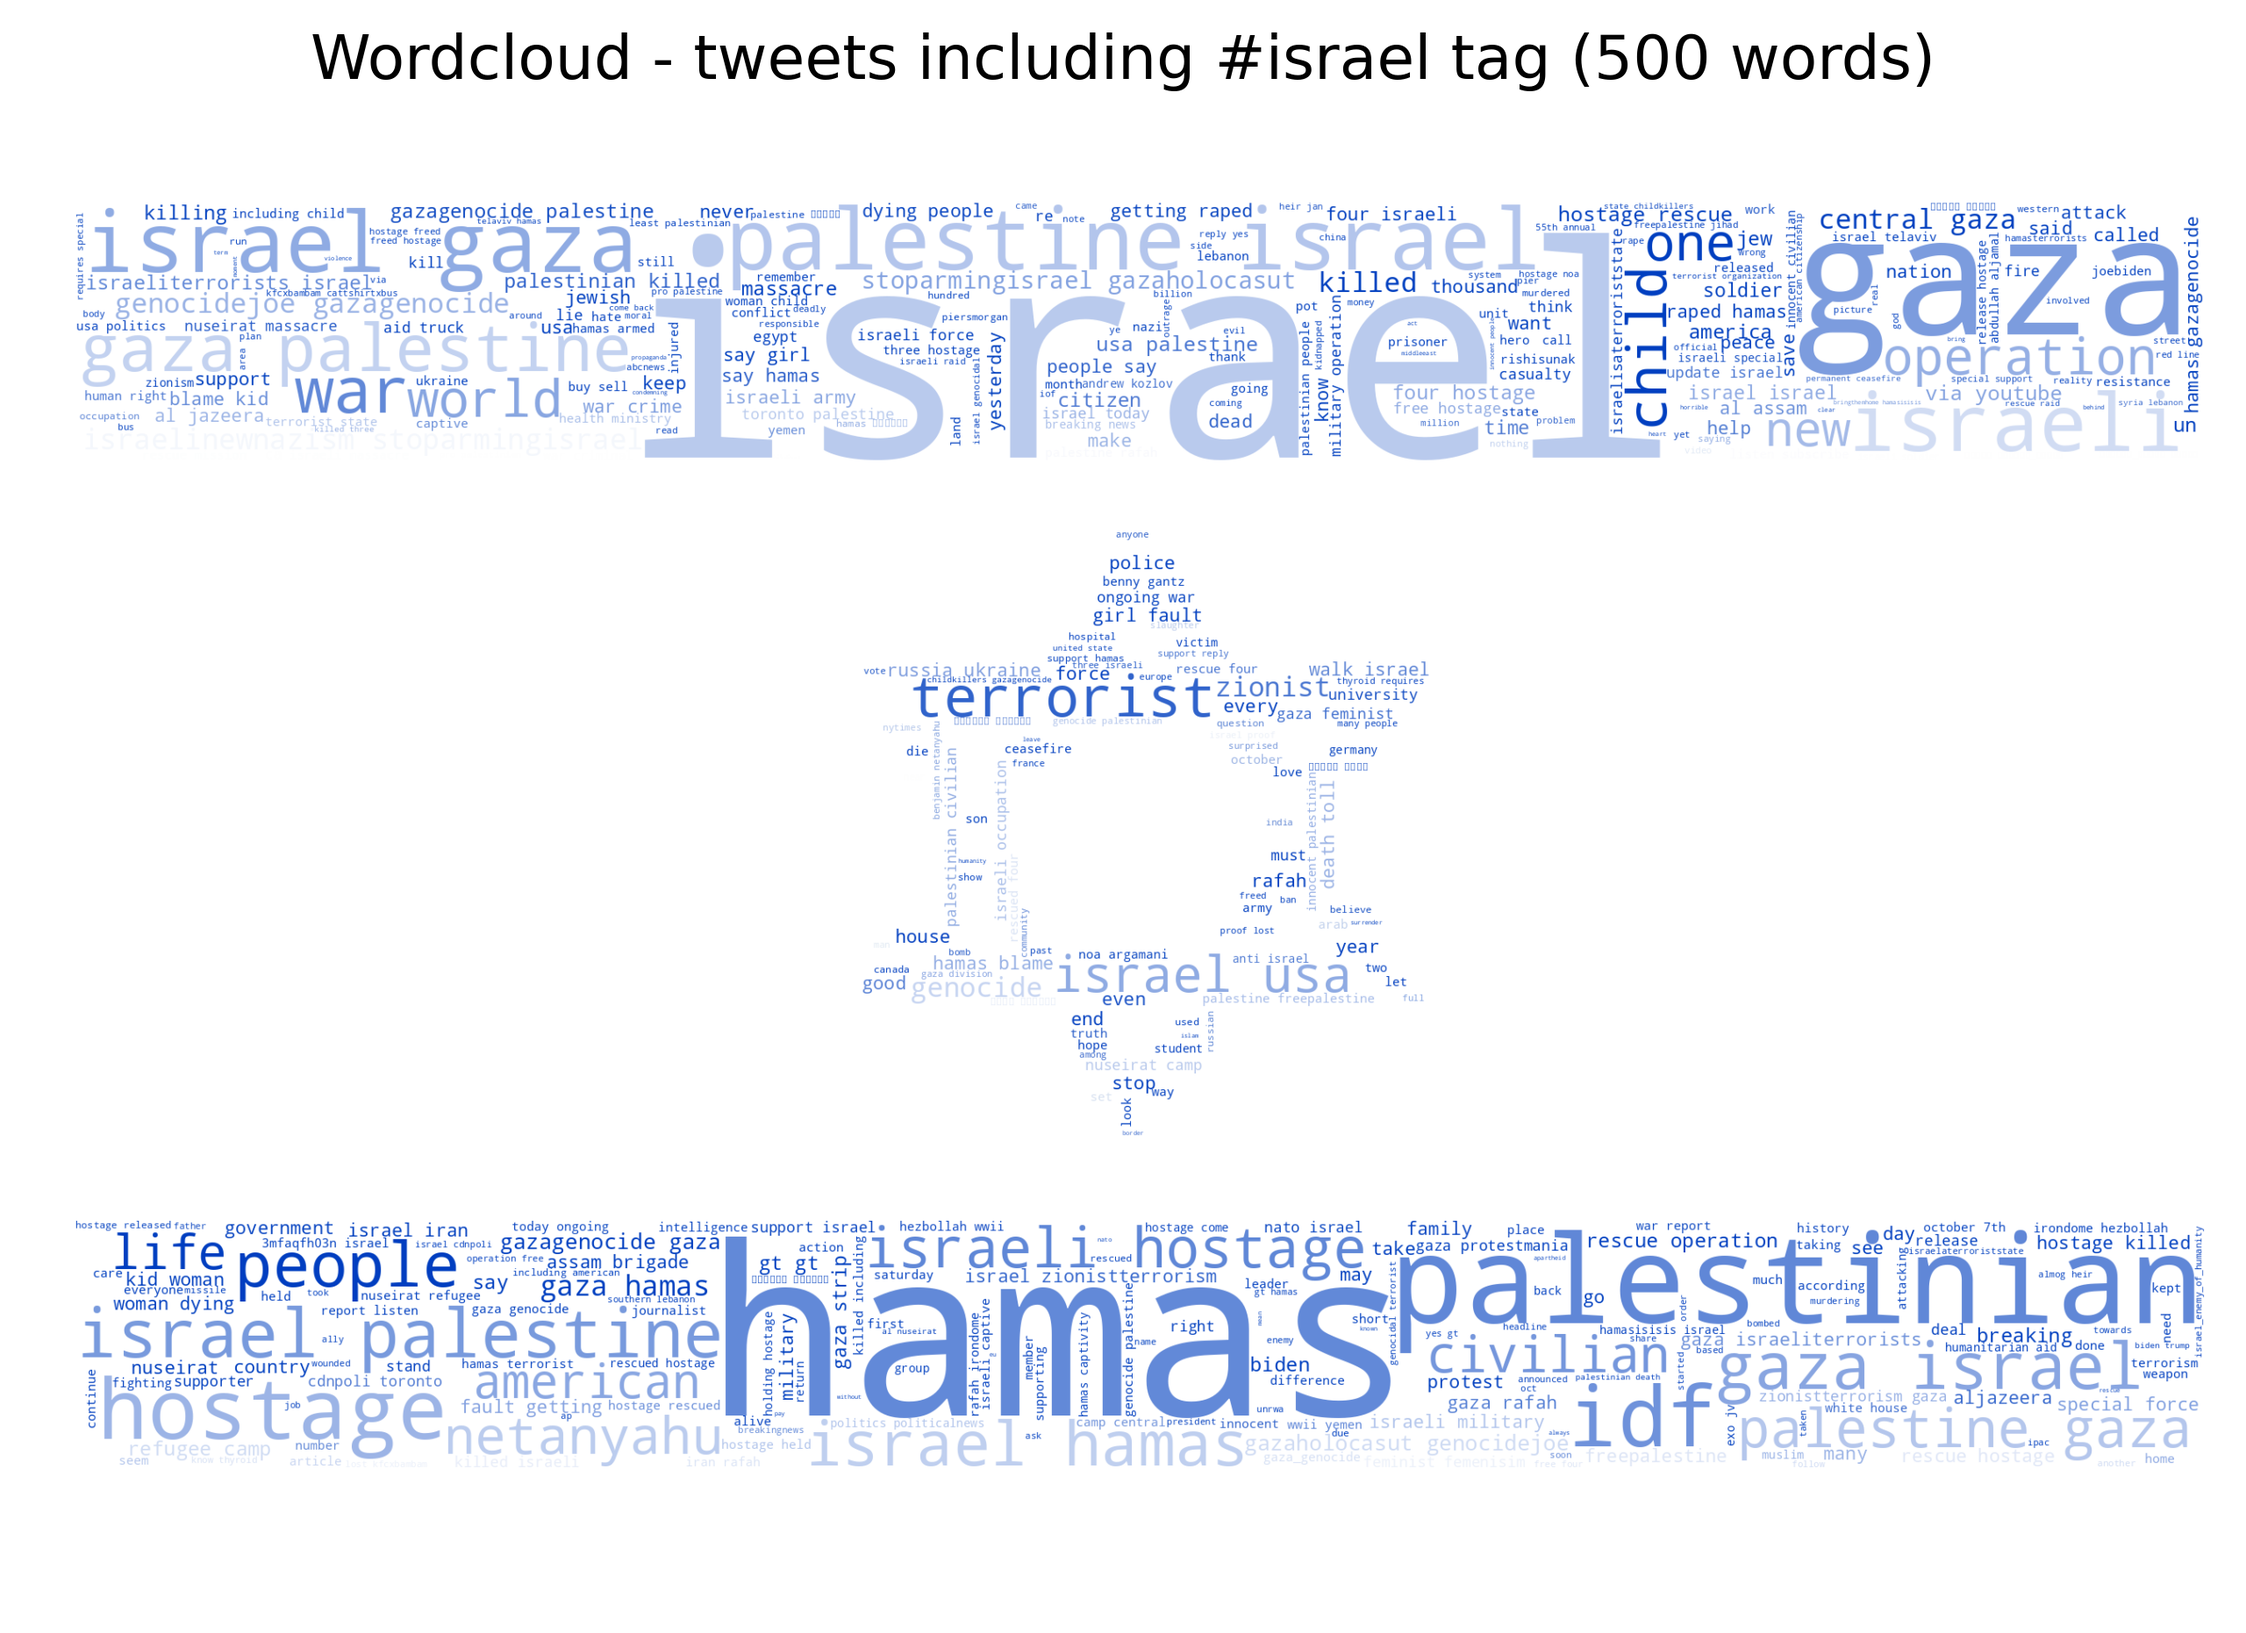
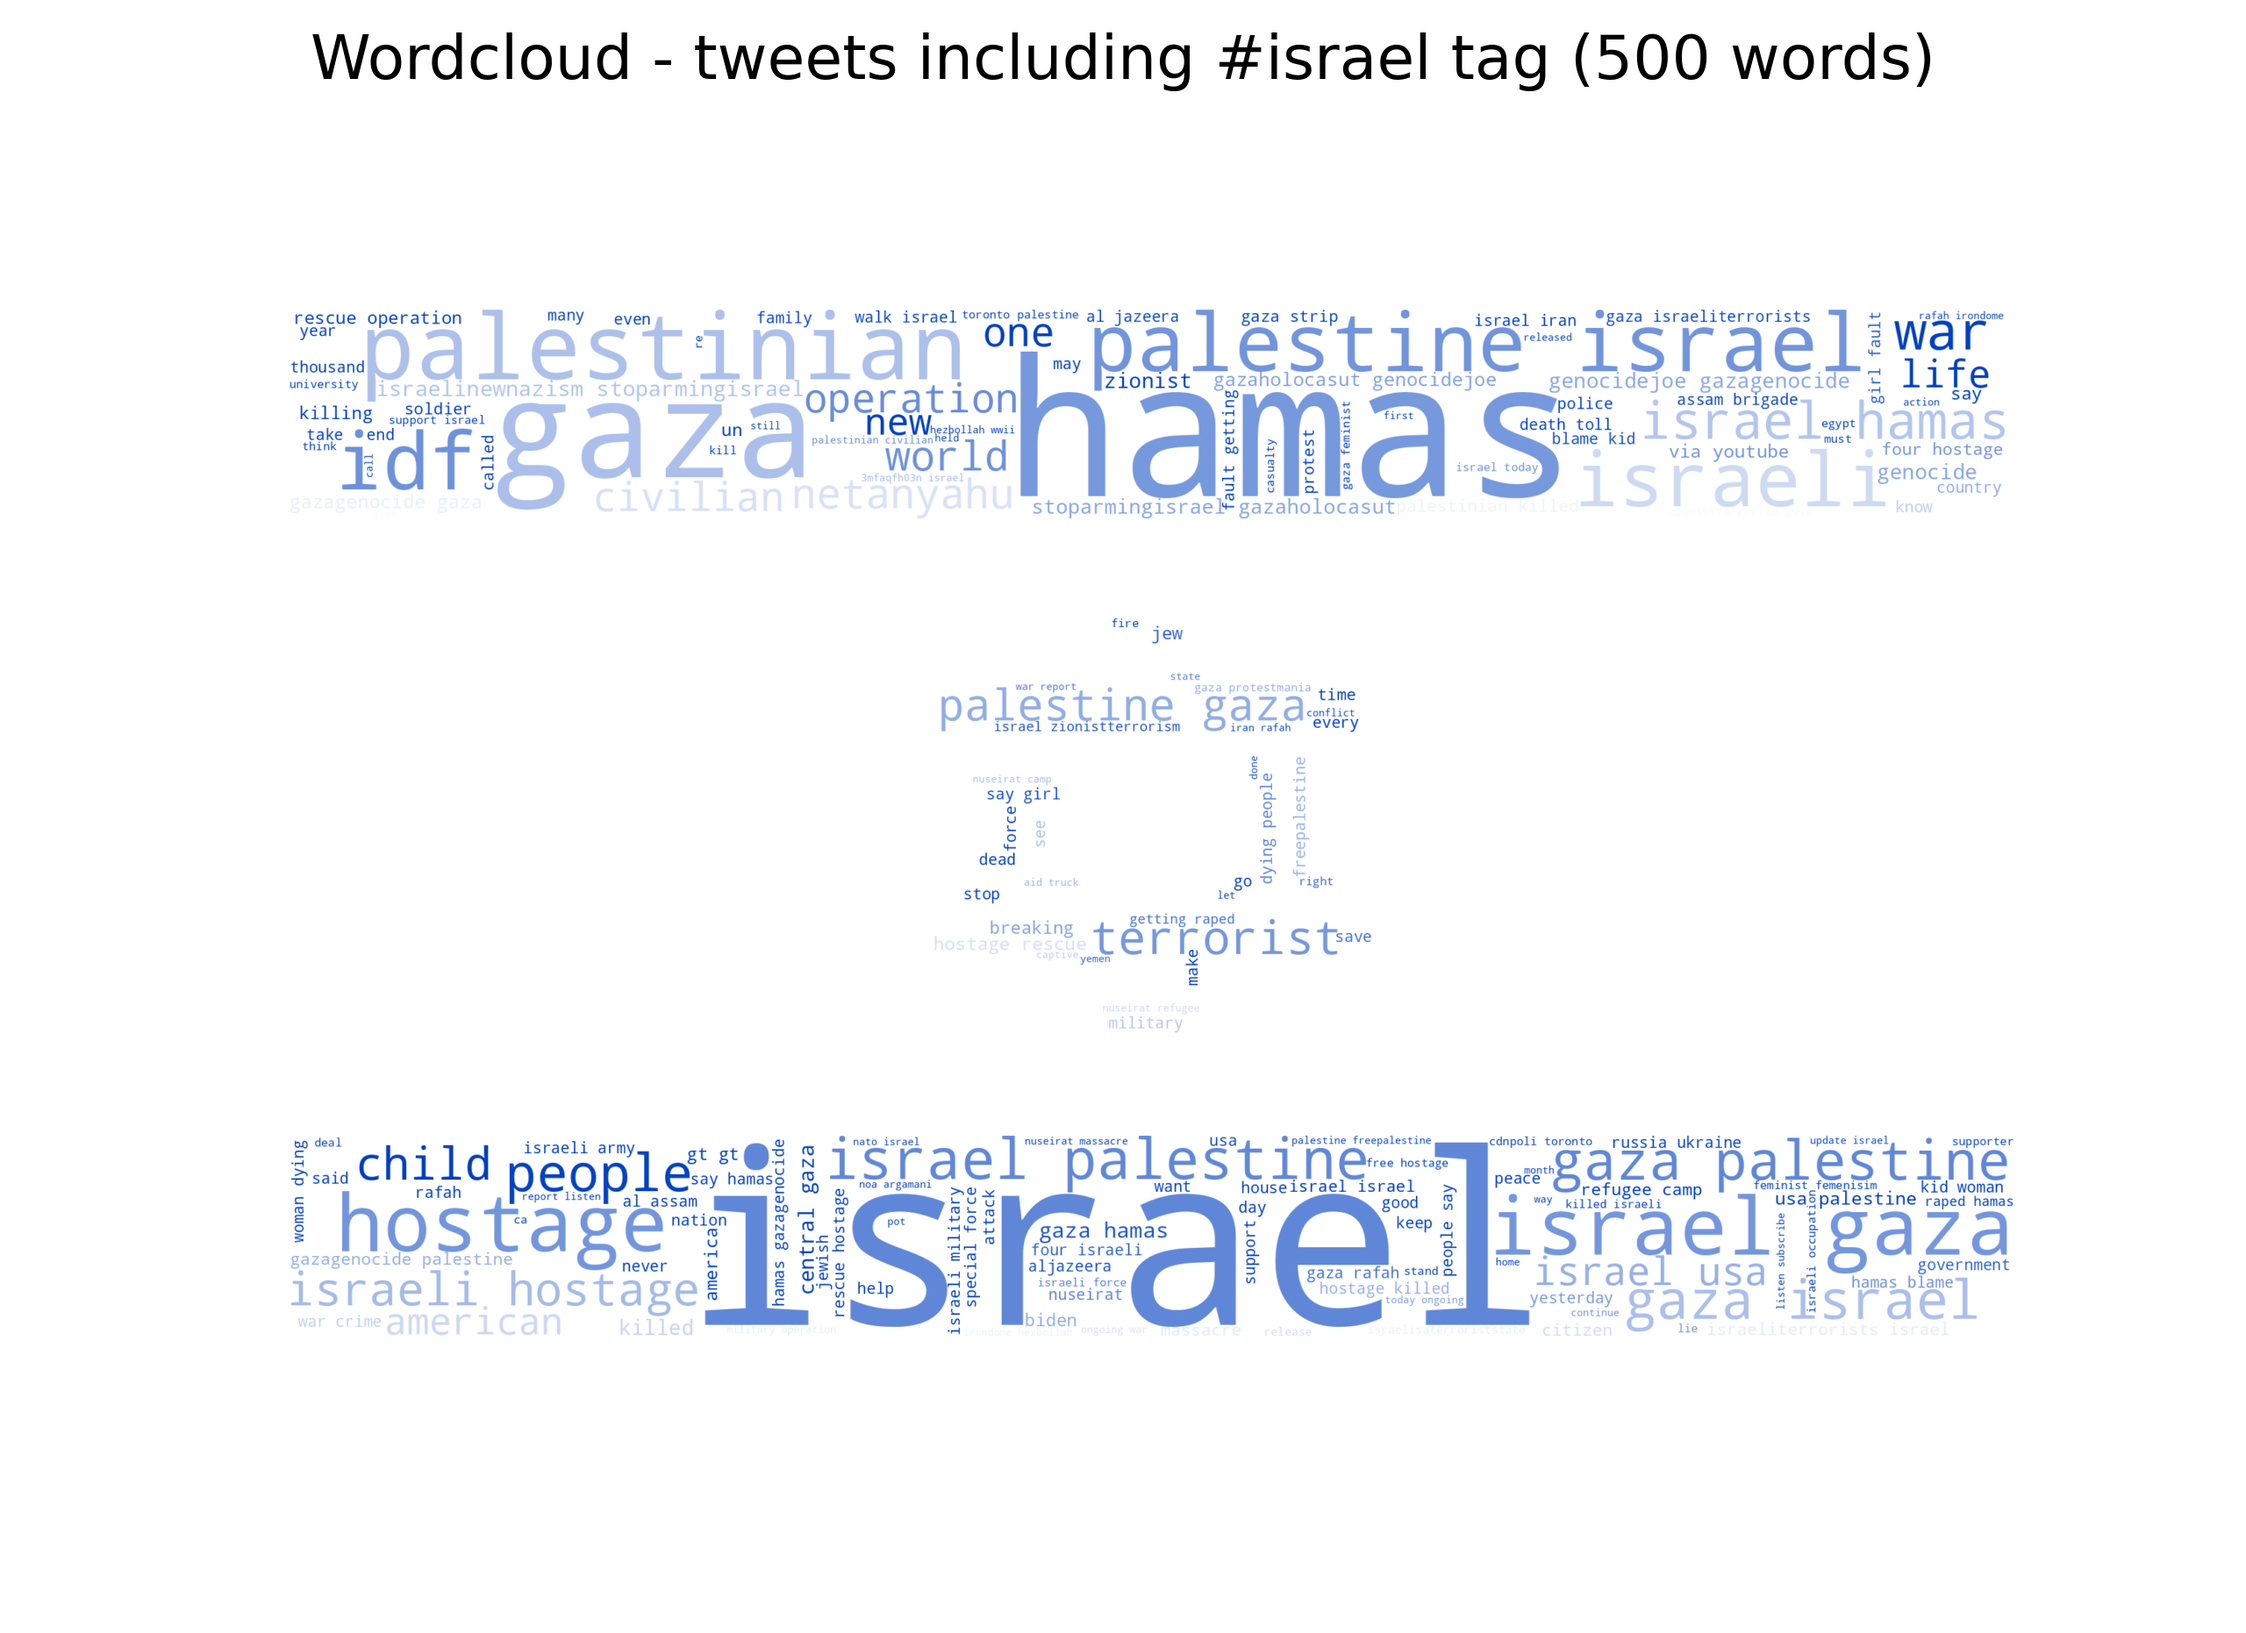
palestine flag creation completed, creating wordcloud refactored

Changed region(s): [[0.0312, 0.3426, 1.0, 0.9033], [0.0312, 0.1246, 1.0, 0.3115]]

diff --git a/src/words/cow.py b/src/words/cow.py
@@ -4,6 +4,51 @@ from rich import print
 import matplotlib.pyplot as plt
 import numpy as np
 from PIL import Image
+from typing import Iterable
+
+
+def create_wordcloud(
+    stopwords: Iterable,
+    path: str,
+    words: list[str],
+    figsize: tuple[int, int],
+    max_words: int,
+    title: str,
+    size: tuple[float, float],
+    fontsize: int = 50,
+    colormap=None,
+    background_color="black",
+    mask=None,
+    mode="RGBA",
+    color_func=None,
+    image_colors=None,
+):
+    wordcloud = WordCloud(
+        stopwords=stopwords,
+        height=size[0],
+        width=size[1],
+        mask=mask,
+        background_color=background_color,
+        colormap=colormap,
+        mode=mode,
+        color_func=color_func,
+    ).generate(" ".join(words))
+    fig = plt.figure(figsize=figsize)
+    fig.suptitle(
+        f"{title} ({max_words} words)",
+        fontsize=fontsize,
+    )
+    plt.tight_layout(pad=0)
+    if color_func is not None:
+        plt.imshow(
+            wordcloud.recolor(color_func=image_colors),
+            interpolation="bilinear",
+        )
+    else:
+        plt.imshow(wordcloud, interpolation="bilinear")
+
+    plt.axis("off")
+    plt.savefig(path)
 
 
 def main_cow():
@@ -16,42 +61,24 @@ def main_cow():
     # Generate a word cloud image
     # stop_words = [str(a) for ]
     max_words = 200
-    wordcloud = WordCloud(
-        max_words=max_words,
-        stopwords=[*STOPWORDS, "u", "n", "s", "n't", "co", "t", "amp"],
-        width=2560,
-        height=1440,
-    ).generate(" ".join(word_list))
-    fig = plt.figure(figsize=(25.60, 14.40))
-    fig.suptitle(f"All tweets wordcloud ({max_words} words)", fontsize=50)
-    plt.tight_layout(pad=0)
-    plt.imshow(wordcloud, interpolation="bilinear")
-    plt.axis("off")
-    plt.savefig("./data/war-day/cow-main.png")
+    stopwords = [*STOPWORDS, "u", "n", "s", "n't", "co", "t", "amp"]
+    path = "./data/war-day/cow-main.png"
+    figsize = (25.60, 14.40)
+    width = 2560
+    height = 1440
+    title = "All tweets wordcloud"
+    create_wordcloud(
+        stopwords, path, word_list, figsize, max_words, title, (height, width)
+    )
 
 
 def israel_cow():
     # Load the CSV file
     df = pd.read_csv("./data/war-day/preprocessed.csv")
-
-    # Load and verify the mask image
-    mask_path = "./img/israel.jpg"
-    mask = Image.open(mask_path)
-
-    # Check if the image is in RGB mode
-    if mask.mode != "RGB":
-        print(f"Converting image mode from {mask.mode} to RGB.")
-        mask = mask.convert("RGB")
-
-    # Convert mask to numpy array
-    mask = np.array(mask)
-
     # Filter rows where hashtags contain "israel"
     israel_rows = df[df["hash_tags"].str.contains("israel", case=False, na=False)]
-
     # Extract processed tokens from the filtered rows
     processed_tokens = israel_rows["processed_content"]
-
     # Convert processed tokens to a list of words
     all_rows = processed_tokens.tolist()
     all_rows_splitted = [line.split(" ") for line in all_rows]
@@ -63,41 +90,99 @@ def israel_cow():
     all_stopwords = stopwords.union(custom_stopwords)
 
     max_words = 500
+    mask = create_mask("./img/israel.jpg")
 
-    wordcloud = WordCloud(
-        max_words=max_words,
-        stopwords=all_stopwords,
-        mode="RGBA",
-        mask=mask,
-        background_color="white",
-        colormap="Paired",
-        contour_color="white",
-        width=2560,
-        height=1862,
-    ).generate(" ".join(word_list))
-
+    max_words = max_words
+    stopwords = all_stopwords
+    mode = "RGBA"
+    background_color = "white"
+    colormap = "Paired"
+    size = (2560, 1862)
+    title = "Wordcloud - tweets including #israel tag"
     # Display the word cloud image
-
-    fig = plt.figure(figsize=(25.60, 18.62))
-    fig.suptitle(
-        f"Wordcloud - tweets including #israel tag ({max_words} words)", fontsize=50
-    )
+    path = "./data/war-day/cow-israel.png"
+    figsize = (25.60, 18.62)
     image_colors = ImageColorGenerator(mask)
-    plt.imshow(
-        wordcloud.recolor(color_func=image_colors),
-        interpolation="bilinear",
-    )
-    plt.tight_layout(pad=0)
-    plt.axis("off")
 
-    # Save the word cloud image
-    plt.savefig("./data/war-day/cow-israel.png")
+    create_wordcloud(
+        all_stopwords,
+        path,
+        word_list,
+        figsize,
+        max_words,
+        title,
+        size,
+        image_colors=image_colors,
+        mask=mask,
+        color_func=image_colors,
+        mode=mode,
+        background_color=background_color,
+        colormap=colormap,
+    )
+
 
 def palestine_cow():
-    # TODO
-    pass
+    # Load the CSV file
+    df = pd.read_csv("./data/war-day/preprocessed.csv")
+    # Filter rows where hashtags contain "israel"
+    palestine = df[df["hash_tags"].str.contains("palestine", case=False, na=False)]
+    # Extract processed tokens from the filtered rows
+    processed_tokens = palestine["processed_content"]
+    # Convert processed tokens to a list of words
+    all_rows = processed_tokens.tolist()
+    all_rows_splitted = [line.split(" ") for line in all_rows]
+    word_list = [word for line in all_rows_splitted for word in line]
+
+    # Generate a word cloud image
+    stopwords = set(STOPWORDS)
+    custom_stopwords = set(["u", "n", "s", "n't", "co", "t", "amp"])
+    all_stopwords = stopwords.union(custom_stopwords)
+
+    max_words = 500
+    mask = create_mask("./img/palestine.png")
+
+    max_words = max_words
+    stopwords = all_stopwords
+    mode = "RGBA"
+    background_color = "white"
+    colormap = "Paired"
+    size = (2560, 1280)
+    title = "Wordcloud - tweets including #palestine tag"
+    # Display the word cloud image
+    path = "./data/war-day/cow-palestine.png"
+    figsize = (25.60, 12.80)
+    image_colors = ImageColorGenerator(mask)
+
+    create_wordcloud(
+        all_stopwords,
+        path,
+        word_list,
+        figsize,
+        max_words,
+        title,
+        size,
+        image_colors=image_colors,
+        mask=mask,
+        color_func=image_colors,
+        mode=mode,
+        background_color=background_color,
+        colormap=colormap,
+    )
+
+
+def create_mask(path: str):
+    mask = Image.open(path)
+
+    # Check if the image is in RGB mode
+    if mask.mode != "RGB":
+        print(f"Converting image mode from {mask.mode} to RGB.")
+        mask = mask.convert("RGB")
+
+    # Convert mask to numpy array
+    return np.array(mask)
 
 
 if __name__ == "__main__":
     main_cow()
     israel_cow()
+    palestine_cow()
